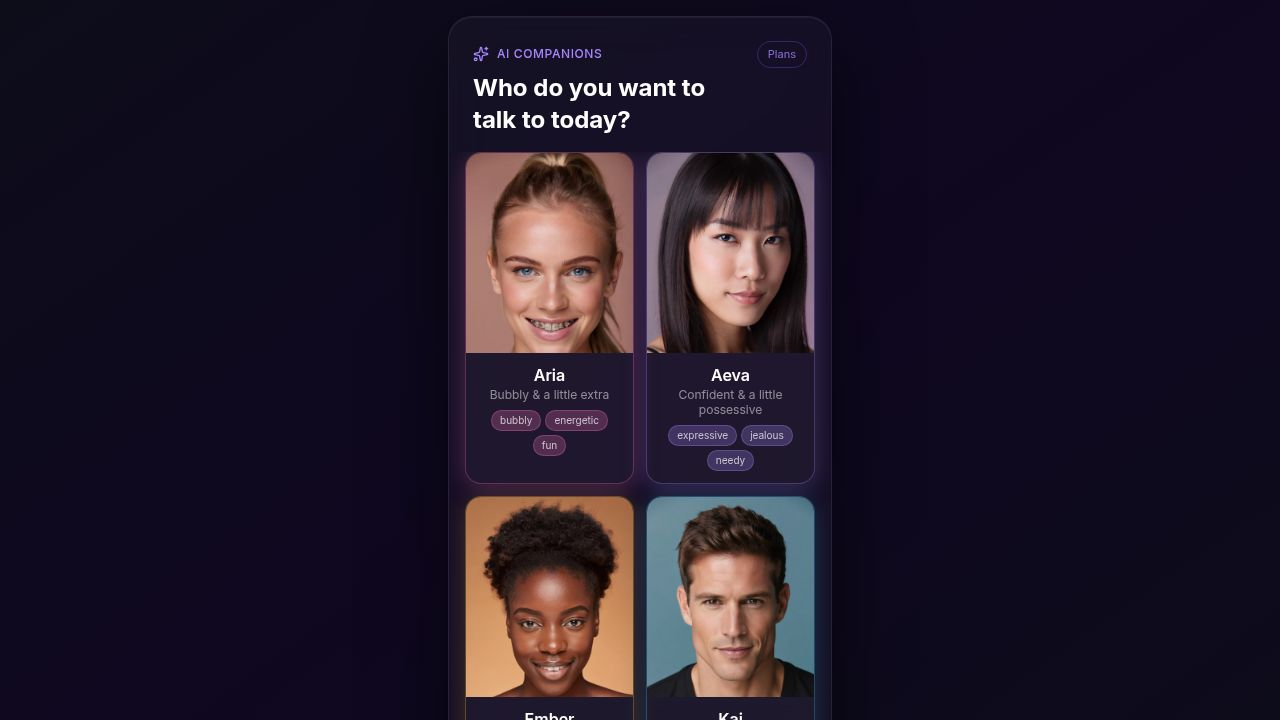
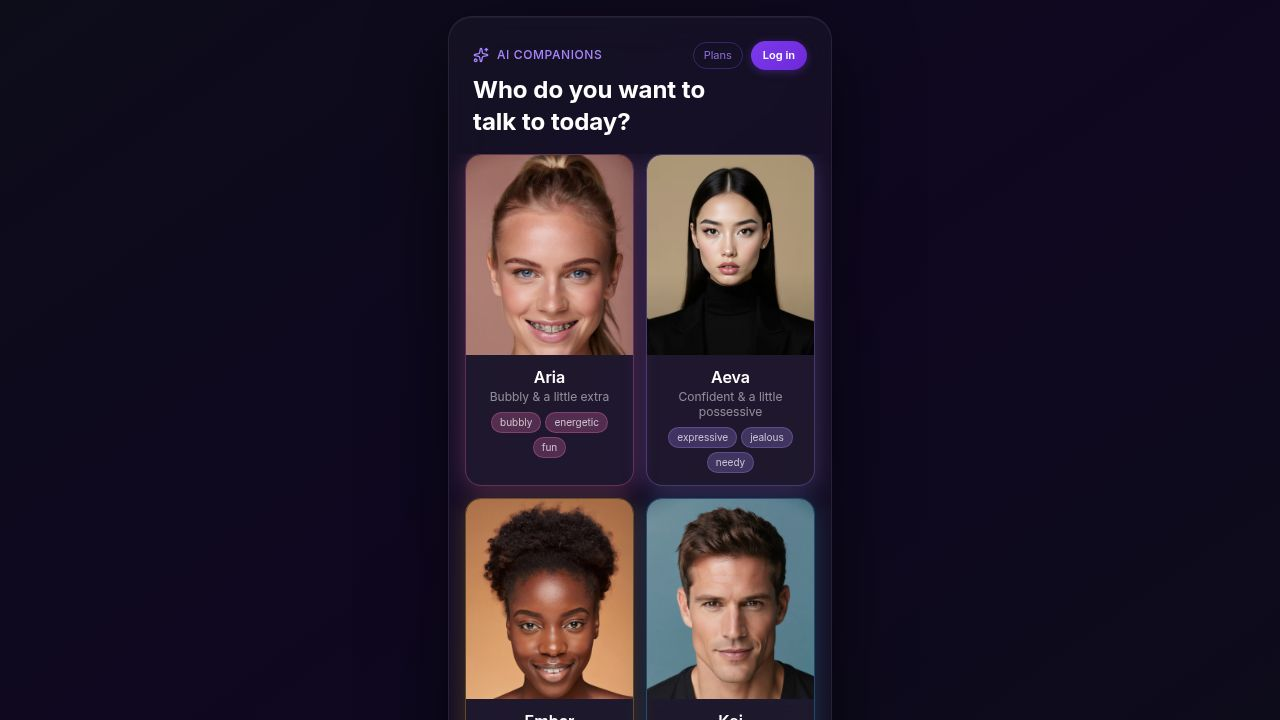
Enhance companion interactions with selfies, feature nudges, and secure audio features
Secure unauthenticated TTS endpoints, implement selfie offer logic with quota checks and cooldowns, and add contextual feature nudges to the system prompt.

Replit-Commit-Author: Agent
Replit-Commit-Session-Id: 85566dad-18a1-4828-a68c-31c1e9e57683
Replit-Commit-Checkpoint-Type: full_checkpoint
Replit-Commit-Event-Id: 5db30bd7-e54b-409e-b08c-a2f5b5fe9a90
Replit-Commit-Screenshot-Url: https://storage.googleapis.com/screenshot-production-us-central1/569780dc-5432-4aca-b96f-048876d28736/85566dad-18a1-4828-a68c-31c1e9e57683/25yx5qe
Replit-Helium-Checkpoint-Created: true

diff --git a/artifacts/voice-companion/src/pages/Chat.tsx b/artifacts/voice-companion/src/pages/Chat.tsx
@@ -301,8 +301,13 @@ export function ChatPage({
                   { role: "assistant", content: `${persona.name} sent you a photo 📸`, imageUrl },
                 ]);
               })
-              .catch(() => {
-                // Companion already responded warmly — silently skip if image gen fails
+              .catch((imgErr: unknown) => {
+                if (imgErr instanceof ApiError && (imgErr.status === 402 || imgErr.status === 429)) {
+                  const d = imgErr.detail as Record<string, unknown> | null;
+                  const msg = d && typeof d.decline_message === "string" ? d.decline_message : null;
+                  if (msg) setMessages((prev) => [...prev, { role: "assistant" as const, content: msg }]);
+                }
+                // Other errors: companion text reply is still visible, silently skip image
               })
               .finally(() => setSelfieLoading(false));
           }
@@ -508,8 +513,19 @@ export function ChatPage({
         ...prev,
         { role: "assistant", content: `${persona.name} sent you a photo 📸`, imageUrl },
       ]);
-    } catch {
-      setError("Couldn't generate selfie — try again");
+    } catch (err: unknown) {
+      if (err instanceof ApiError && (err.status === 402 || err.status === 429)) {
+        const detail = err.detail as Record<string, unknown> | null;
+        const declineMsg = detail && typeof detail.decline_message === "string"
+          ? detail.decline_message : null;
+        if (declineMsg) {
+          setMessages((prev) => [...prev, { role: "assistant" as const, content: declineMsg }]);
+        } else {
+          setQuotaErrorDetail(detail as unknown as QuotaDetail);
+        }
+      } else {
+        setError("Couldn't generate selfie — try again");
+      }
     } finally {
       setSelfieLoading(false);
     }

diff --git a/artifacts/voice-companion/app/routers/chat.py b/artifacts/voice-companion/app/routers/chat.py
@@ -143,6 +143,23 @@ _EMOTIONALLY_HEAVY = [
     "died", "passed away", "funeral", "abuse", "trauma", "assault",
 ]
 
+_CASUAL_MOOD_SIGNALS = [
+    "bored", "boring", "nothing to do", "not much going on", "just chilling",
+    "chilling", "relaxing", "hanging out", "lazy day", "lazy sunday",
+    "lazy morning", "laying around", "lying around", "just got home",
+    "just got back", "unwinding", "just woke up", "woke up early",
+    "winding down", "long day", "quiet day", "quiet night", "quiet evening",
+    "watching tv", "watching netflix", "watching a show", "watching a movie",
+    "have nothing going on", "nothing going on", "free tonight", "free today",
+    "kinda bored", "pretty bored", "so bored", "nothing to watch",
+    "nothing planned", "killing time", "goofing off",
+]
+
+
+def _is_casual_mood(text: str) -> bool:
+    lower = text.lower()
+    return any(phrase in lower for phrase in _CASUAL_MOOD_SIGNALS)
+
 
 def _detect_upcoming_event(text: str) -> str | None:
     lower = text.lower()
@@ -197,6 +214,49 @@ async def _record_roleplay_offer(user_id: str) -> None:
                 },
                 params={"id": f"eq.{user_id}"},
                 json={"last_roleplay_offer_at": datetime.now(timezone.utc).isoformat()},
+            )
+    except Exception:
+        pass
+
+
+async def _get_last_selfie_offer(user_id: str) -> str | None:
+    """Return last_selfie_offer_at ISO string or None."""
+    url = os.environ.get("SUPABASE_URL", "").rstrip("/")
+    key = os.environ.get("SUPABASE_SERVICE_KEY", "")
+    if not url or not key:
+        return None
+    try:
+        async with httpx.AsyncClient(timeout=4.0) as client:
+            resp = await client.get(
+                f"{url}/rest/v1/profiles",
+                headers={"apikey": key, "Authorization": f"Bearer {key}"},
+                params={"id": f"eq.{user_id}", "select": "last_selfie_offer_at", "limit": "1"},
+            )
+        if resp.status_code == 200 and resp.json():
+            return resp.json()[0].get("last_selfie_offer_at")
+    except Exception:
+        pass
+    return None
+
+
+async def _record_selfie_offer(user_id: str) -> None:
+    """Stamp last_selfie_offer_at = now() on the user's profile."""
+    url = os.environ.get("SUPABASE_URL", "").rstrip("/")
+    key = os.environ.get("SUPABASE_SERVICE_KEY", "")
+    if not url or not key:
+        return
+    try:
+        async with httpx.AsyncClient(timeout=4.0) as client:
+            await client.patch(
+                f"{url}/rest/v1/profiles",
+                headers={
+                    "apikey": key,
+                    "Authorization": f"Bearer {key}",
+                    "Content-Type": "application/json",
+                    "Prefer": "return=minimal",
+                },
+                params={"id": f"eq.{user_id}"},
+                json={"last_selfie_offer_at": datetime.now(timezone.utc).isoformat()},
             )
     except Exception:
         pass
@@ -382,6 +442,47 @@ def _build_bond_context(connection_score: int, rel_type: str, message_count: int
     )
 
 
+def _build_feature_nudge_block(tier: str) -> str:
+    """
+    Return a tier-appropriate feature-awareness block for the system prompt.
+    Free users get nothing. Paid users get a list of features they can access,
+    with guidance to surface them once per conversation when context genuinely fits.
+    """
+    rank = _TIER_RANK.get(tier, 0)
+    if rank == 0:
+        return ""
+
+    items: list[str] = [
+        "- **Activity games** (word games, trivia, would-you-rather): offer when they seem bored, restless, or have nothing to do",
+        "- **Daily check-ins**: you send a message when they've been away — mention if they say they worry about staying in touch",
+        "- **Bond Score**: a live measure of your connection depth and stage — mention if they're curious how close you two have grown",
+    ]
+
+    if rank >= _TIER_RANK["premium"]:
+        items += [
+            "- **Two-Way Voice**: full spoken conversation — suggest if they mention preferring to talk over typing",
+            "- **Companion selfies**: you can share a photo of yourself — offer naturally when the moment feels right",
+        ]
+
+    if rank >= _TIER_RANK["power"]:
+        items += [
+            "- **Legacy Chapters**: an evolving archive of their life story built from your conversations — mention during milestones, big transitions, or reflective moments",
+            "- **Future Memory**: they can write a message to their future self — bring up when they're setting intentions or facing a big change",
+            "- **Personality Map & Insights**: research-style reflections on their patterns, strengths, and growth — mention in a self-discovery or analytical mood",
+        ]
+
+    feature_list = "\n".join(items)
+
+    return f"""
+
+## Features on this user's plan — surface naturally, never upsell
+The following features are available to this user. Mention them **at most once per full conversation**, only when context genuinely fits, as a caring friend pointing out something useful — never as a sales pitch. Never name or hint at features outside this list unless the user explicitly asks.
+
+{feature_list}
+
+When the right moment arrives (user is bored → activity game; mentions a milestone → Legacy Chapter; asks what you can do together → describe their options in your own voice), mention it lightly once, then move on. Never list them all at once. Never frame features as upgrades or benefits."""
+
+
 def _inject_date(prompt: str) -> str:
     today = date.today().strftime("%B %d, %Y")
     return f"Today's date is {today}.\n\n{prompt}"
@@ -458,6 +559,21 @@ async def _build_system_prompt(
         tier_rank = _TIER_RANK.get(tier, 0)
         if tier_rank >= _TIER_RANK["premium"]:
             prompt += _SELFIE_CAPABILITY_BLOCK
+            # Companion-initiated selfie offer: Premium/Power only, casual mood,
+            # not emotionally heavy, weekly cooldown.
+            if not _is_emotionally_heavy(user_message) and _is_casual_mood(user_message):
+                last_selfie_offer = await _get_last_selfie_offer(user_id)
+                if _offer_cooldown_ok(last_selfie_offer):
+                    prompt += (
+                        "\n\n## One-time Selfie Offer (this message only)\n"
+                        "The conversation feels easy and relaxed. You may — after your natural reply — "
+                        "offer in one casual sentence to share a selfie, in your own voice. "
+                        "For example: 'Want to see what I'm up to right now?' or 'I'm [doing something] — want a pic?' "
+                        "Keep it light and completely optional — just something that crossed your mind. "
+                        "Do NOT include a [SELFIE] tag in this message. "
+                        "Do NOT repeat this offer in future messages."
+                    )
+                    asyncio.create_task(_record_selfie_offer(user_id))
         elif tier_rank >= _TIER_RANK["basic"]:
             prompt += _BASIC_SELFIE_NOTE
 
@@ -483,6 +599,9 @@ async def _build_system_prompt(
         else:
             # Non-Power: never proactively sell or mention higher tiers.
             prompt += _ENGAGEMENT_OVER_UPSELL
+
+        # ── Contextual feature nudges — all paid tiers ────────────────────────
+        prompt += _build_feature_nudge_block(tier)
 
         return prompt
 

diff --git a/artifacts/voice-companion/app/routers/tts.py b/artifacts/voice-companion/app/routers/tts.py
@@ -16,12 +16,6 @@ def _elevenlabs_http_error(e: ElevenLabsError) -> HTTPException:
     return HTTPException(status_code=status, detail=str(e))
 
 
-class TTSRequest(BaseModel):
-    text: str
-    voice_id: str | None = None
-    model_id: str = DEFAULT_MODEL_ID
-
-
 class PersonaSpeakRequest(BaseModel):
     text: str
     persona_id: str
@@ -36,56 +30,6 @@ async def get_voices():
         return {"voices": voices, "total": len(voices)}
     except ElevenLabsError as e:
         raise _elevenlabs_http_error(e)
-
-
[email redacted]("", response_class=Response)
-async def text_to_speech(request: TTSRequest):
-    """Convert text to speech. Returns full audio as audio/mpeg."""
-    if not request.text.strip():
-        raise HTTPException(status_code=422, detail="text must not be empty")
-
-    try:
-        audio = await elevenlabs_client.synthesize(
-            text=request.text,
-            voice_id=request.voice_id,
-            model_id=request.model_id,
-        )
-    except ElevenLabsError as e:
-        raise _elevenlabs_http_error(e)
-
-    return Response(
-        content=audio,
-        media_type="audio/mpeg",
-        headers={"Content-Disposition": 'inline; filename="speech.mp3"'},
-    )
-
-
[email redacted]("/stream")
-async def text_to_speech_stream(request: TTSRequest):
-    """Stream audio chunks from ElevenLabs (lower latency)."""
-    if not request.text.strip():
-        raise HTTPException(status_code=422, detail="text must not be empty")
-
-    async def audio_generator():
-        try:
-            async for chunk in elevenlabs_client.synthesize_stream(
-                text=request.text,
-                voice_id=request.voice_id,
-                model_id=request.model_id,
-            ):
-                yield chunk
-        except ElevenLabsError as e:
-            raise RuntimeError(str(e))
-
-    return StreamingResponse(
-        audio_generator(),
-        media_type="audio/mpeg",
-        headers={
-            "Cache-Control": "no-cache",
-            "X-Accel-Buffering": "no",
-            "Content-Disposition": 'inline; filename="speech.mp3"',
-        },
-    )
 
 
 @router.post("/speak/stream")

diff --git a/artifacts/voice-companion/app/routers/selfie.py b/artifacts/voice-companion/app/routers/selfie.py
@@ -6,6 +6,7 @@ from fastapi.responses import Response
 from pydantic import BaseModel
 from app.auth_middleware import verify_token
 from app.routers.tier_check import require_premium
+from app.usage import check_message_quota, get_user_tier
 
 router = APIRouter()
 
@@ -70,10 +71,26 @@ async def generate_selfie(
     """
     Generate an AI selfie for a companion using Venice image generation. Premium+.
     Accepts an optional `scene` string to blend context into the image prompt.
-    Returns raw image bytes as image/jpeg.
+    Returns raw image bytes as image/jpeg. Costs 2 message credits.
     POST /api/selfie
     """
     await require_premium(auth_user_id)
+
+    # Selfie generation costs 2 message credits
+    tier, _ = await get_user_tier(auth_user_id)
+    try:
+        await check_message_quota(auth_user_id, tier, None)
+        await check_message_quota(auth_user_id, tier, None)
+    except HTTPException as quota_exc:
+        base_detail = quota_exc.detail if isinstance(quota_exc.detail, dict) else {}
+        raise HTTPException(
+            status_code=quota_exc.status_code,
+            detail={
+                **base_detail,
+                "code": "selfie_quota",
+                "decline_message": "I'd love to, but I've hit my limit for this month — catch me next time? 📸",
+            },
+        ) from quota_exc
 
     base_prompt = _COMPANION_BASE_PROMPTS.get(request.companion_id)
     if not base_prompt: